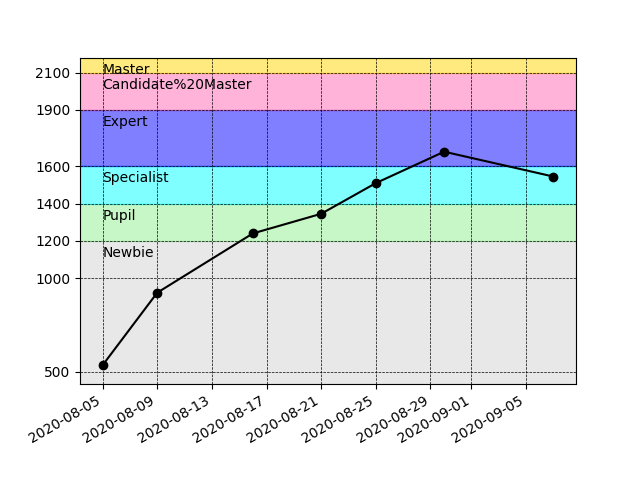
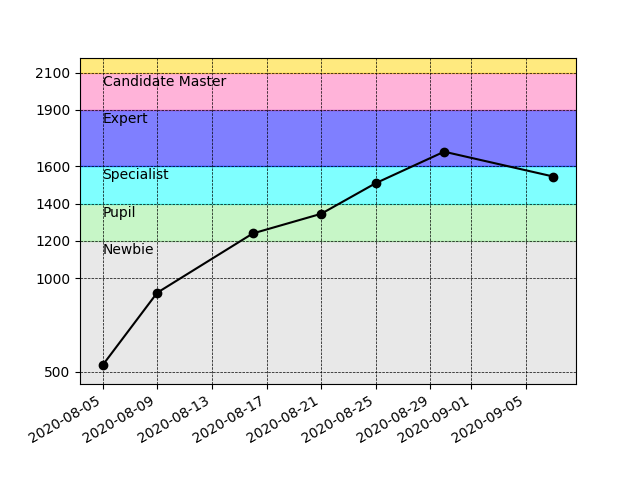
show text only if section is tall enough

diff --git a/fmt.py b/fmt.py
@@ -128,7 +128,7 @@ fig.autofmt_xdate()
 max_rating = max(rating_data) * 1.3
 min_rating = min(rating_data) - 100
 
-ydelta = (max_rating - min_rating) / 20
+ydelta = (max_rating - min_rating) / 25
 
 for i in range(1, len(meta.titles)):
     if meta.titles[i-1][0] < max_rating:
@@ -140,8 +140,8 @@ for i in range(1, len(meta.titles)):
             color=meta.titles[i][2],
             alpha=0.5
             )
-        print(ymax)
-        ax.text(time_data[0], ymax - ydelta, meta.titles[i][1])
+        if ymax - ymin > ydelta * 2:
+            ax.text(time_data[0], ymax - ydelta, meta.titles[i][1].replace("%20", " "))
 
 ax.set_ylim((min_rating, max_rating))
 
